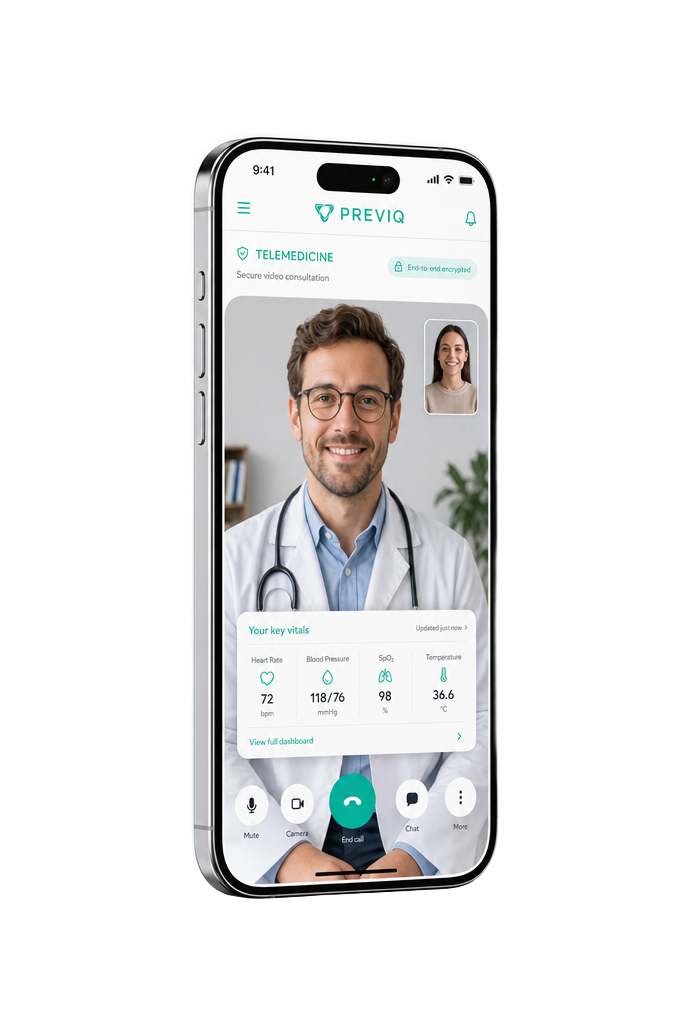
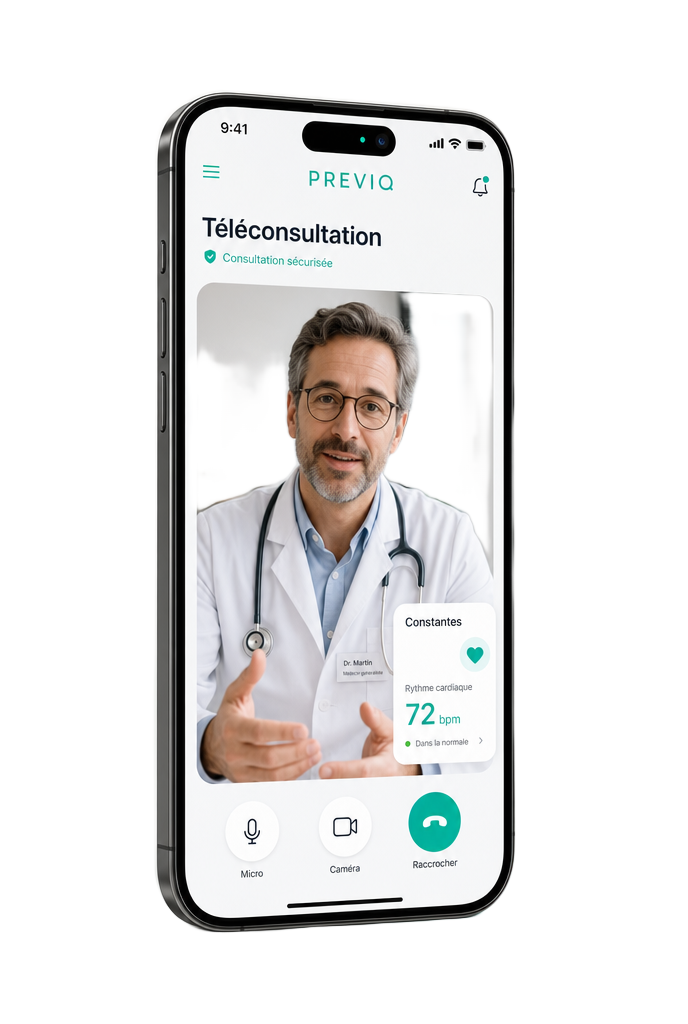
Montée en gamme pages 18/22/23 + écran téléconsult FR
- Page « Second avis » : étapes en cartes verre premium
- Page « Confidentialité » : 6 cartes verre premium + badges check, bouclier
  avec halo lumineux et légende « chiffré de bout en bout »
- Page « L'application pilote » : vrai écran d'app au centre du hub
  (remplace le téléphone dessiné en SVG)
- Écran téléconsultation régénéré en français + détouré

Claude-Session: https://claude.ai/code/session_01NNiVNv6aGaBRmruBegNx5H

Changed region(s): [[0.2137, 0.0625, 0.7631, 0.9375]]

diff --git a/diaporama.html b/diaporama.html
@@ -2208,11 +2208,14 @@ function Scene11Security({ start, end }) {
               <span style={{ fontStyle: 'italic', color: C.cyan }}>protégées comme un secret médical.</span>
             </div>
 
+            {/* Soft glow behind shield */}
+            <div style={{ position: 'absolute', left: 300, top: 560, transform: 'translate(-50%,-50%)', width: 560, height: 560, borderRadius: '50%', background: `radial-gradient(circle, ${C.cyan}26 0%, transparent 66%)`, opacity: shieldIn }} />
+
             {/* 3D shield */}
             <div style={{
-              position: 'absolute', left: 240, top: 540,
+              position: 'absolute', left: 300, top: 560,
               opacity: shieldIn,
-              transform: `translate(-50%, -50%) perspective(1200px) rotateY(${Math.sin(t * 0.6) * 12}deg) scale(${0.6 + shieldIn * 0.4})`,
+              transform: `translate(-50%, -50%) perspective(1200px) rotateY(${Math.sin(t * 0.6) * 12}deg) scale(${0.7 + shieldIn * 0.4})`,
               transformStyle: 'preserve-3d',
             }}>
               <svg width="380" height="440" viewBox="0 0 380 440" style={{ filter: `drop-shadow(0 0 50px ${C.cyan})` }}>
@@ -2241,31 +2244,40 @@ function Scene11Security({ start, end }) {
               </svg>
             </div>
 
+            {/* Premium caption under shield */}
+            <div style={{ position: 'absolute', left: 300, top: 828, transform: 'translateX(-50%)', opacity: shieldIn, display: 'flex', alignItems: 'center', gap: 10, padding: '10px 22px', borderRadius: 100, background: 'rgba(255,255,255,0.72)', border: `1px solid ${C.cyan}44`, boxShadow: `0 8px 22px ${C.cyan}18`, backdropFilter: 'blur(8px)', fontFamily: 'JetBrains Mono, monospace', fontSize: 14, letterSpacing: '0.16em', textTransform: 'uppercase', color: C.blue, whiteSpace: 'nowrap' }}>
+              <span style={{ width: 8, height: 8, borderRadius: 4, background: C.cyan, boxShadow: `0 0 10px ${C.cyan}` }} />
+              Chiffré de bout en bout · secret médical
+            </div>
+
             <div style={{
-              position: 'absolute', right: 96, top: 420, width: 1000,
-              display: 'grid', gridTemplateColumns: '1fr 1fr', gap: 18,
+              position: 'absolute', right: 96, top: 408, width: 1040,
+              display: 'grid', gridTemplateColumns: '1fr 1fr', gap: 22,
             }}>
               {commits.map((c, i) => {
                 const itIn = clamp((t - 2.0 - i * 0.15) / 0.5, 0, 1);
                 return (
                   <div key={i} style={{
                     opacity: itIn, transform: `translateX(${(1-itIn)*30}px)`,
-                    padding: '18px 22px',
-                    background: 'rgba(0,179,154,0.04)',
-                    border: `1px solid ${C.line}`,
-                    borderRadius: 12,
-                    display: 'flex', gap: 14,
+                    padding: '22px 26px',
+                    background: 'linear-gradient(135deg, rgba(255,255,255,0.9), rgba(244,249,250,0.82))',
+                    border: `1px solid ${C.cyan}33`,
+                    borderRadius: 16,
+                    boxShadow: '0 14px 36px rgba(10,37,64,0.08)',
+                    backdropFilter: 'blur(10px)',
+                    display: 'flex', gap: 16, alignItems: 'flex-start',
                   }}>
                     <div style={{
-                      width: 24, height: 24, flexShrink: 0,
-                      borderRadius: '50%',
-                      background: C.cyan,
+                      width: 34, height: 34, flexShrink: 0,
+                      borderRadius: 10,
+                      background: `linear-gradient(135deg, ${C.cyan}, ${C.cyanDim})`,
                       display: 'flex', alignItems: 'center', justifyContent: 'center',
-                      color: C.ink, fontWeight: 700, fontSize: 18,
+                      color: '#fff', fontWeight: 700, fontSize: 19,
+                      boxShadow: `0 6px 16px ${C.cyan}55`,
                     }}>✓</div>
                     <div>
-                      <div style={{ fontSize: 20, fontWeight: 500, color: C.white }}>{c.title}</div>
-                      <div style={{ fontSize: 15, color: C.whiteDim, marginTop: 4, lineHeight: 1.5 }}>{c.desc}</div>
+                      <div style={{ fontFamily: 'Inter', fontSize: 22, fontWeight: 600, color: C.white, letterSpacing: '-0.01em' }}>{c.title}</div>
+                      <div style={{ fontSize: 15.5, color: C.whiteDim, marginTop: 6, lineHeight: 1.5 }}>{c.desc}</div>
                     </div>
                   </div>
                 );
@@ -2993,19 +3005,12 @@ function Scene12Authors({ start, end }) {
                 <polygon points="250,120 350,180 350,320 250,380 150,320 150,180"
                          fill="rgba(252,248,238,0.7)" stroke={C.gold} strokeWidth="1.5"
                          transform={`rotate(${-t * 4} 250 250)`} />
-                {/* Phone glyph at the center */}
-                <g transform="translate(250 250)">
-                  <rect x="-46" y="-78" width="92" height="156" rx="16" fill="rgba(252,248,238,0.92)" stroke={C.gold} strokeWidth="2.5" />
-                  <rect x="-46" y="-78" width="92" height="156" rx="16" fill="none" stroke={C.cyan} strokeWidth="1" opacity="0.5" />
-                  <line x1="-12" y1="-68" x2="12" y2="-68" stroke={C.gold} strokeWidth="3" strokeLinecap="round" />
-                  {/* heartbeat */}
-                  <path d="M -34 4 L -16 4 L -8 -20 L 2 28 L 10 -8 L 18 4 L 34 4"
-                        fill="none" stroke={C.red} strokeWidth="2.5" strokeLinejoin="round" strokeLinecap="round" />
-                  {/* score chip */}
-                  <rect x="-32" y="40" width="64" height="22" rx="6" fill={C.gold} opacity="0.92" />
-                  <text x="0" y="55" textAnchor="middle" fill={C.bg0} fontFamily="JetBrains Mono, monospace" fontSize="14" fontWeight="700">BS 42</text>
-                </g>
               </svg>
+              {/* Real app at the center */}
+              <img src="assets/viz/app-longevity-cut.png" alt="Application PREVIQ" style={{
+                position: 'absolute', left: '50%', top: '50%', transform: 'translate(-50%, -52%)',
+                width: 214, height: 'auto', filter: 'drop-shadow(0 18px 38px rgba(10,37,64,0.30))', pointerEvents: 'none',
+              }} />
               {/* Label under */}
               <div style={{
                 position: 'absolute', left: '50%', bottom: -30,
@@ -3612,15 +3617,17 @@ function SceneSecondAvis({ start, end }) {
                 return (
                   <div key={i} style={{
                     opacity: stIn, transform: `translateX(${(1 - stIn) * 30}px)`,
-                    padding: '20px 24px',
-                    background: `linear-gradient(135deg, ${s.color}10, ${s.color}03)`,
-                    border: `1px solid ${s.color}66`,
-                    borderRadius: 14,
-                    display: 'flex', gap: 18, alignItems: 'flex-start',
+                    padding: '24px 26px',
+                    background: 'linear-gradient(135deg, rgba(255,255,255,0.92), rgba(244,249,250,0.84))',
+                    border: `1px solid ${s.color}44`,
+                    borderRadius: 16,
+                    boxShadow: `0 14px 36px rgba(10,37,64,0.08)`,
+                    backdropFilter: 'blur(10px)',
+                    display: 'flex', gap: 20, alignItems: 'flex-start',
                   }}>
-                    <div style={{ fontFamily: 'Inter', fontSize: 48, fontWeight: 100, color: s.color, lineHeight: 0.9, letterSpacing: '-0.04em', minWidth: 60 }}>{s.n}</div>
+                    <div style={{ fontFamily: 'Inter', fontSize: 52, fontWeight: 100, color: s.color, lineHeight: 0.9, letterSpacing: '-0.04em', minWidth: 64 }}>{s.n}</div>
                     <div>
-                      <div style={{ fontSize: 26, fontWeight: 500, color: C.white, letterSpacing: '-0.01em' }}>{s.title}</div>
+                      <div style={{ fontSize: 26, fontWeight: 600, color: C.white, letterSpacing: '-0.01em' }}>{s.title}</div>
                       <div style={{ fontSize: 17, color: C.whiteDim, marginTop: 6, lineHeight: 1.55 }}>{s.desc}</div>
                     </div>
                   </div>

diff --git a/index.html b/index.html
@@ -2208,11 +2208,14 @@ function Scene11Security({ start, end }) {
               <span style={{ fontStyle: 'italic', color: C.cyan }}>protégées comme un secret médical.</span>
             </div>
 
+            {/* Soft glow behind shield */}
+            <div style={{ position: 'absolute', left: 300, top: 560, transform: 'translate(-50%,-50%)', width: 560, height: 560, borderRadius: '50%', background: `radial-gradient(circle, ${C.cyan}26 0%, transparent 66%)`, opacity: shieldIn }} />
+
             {/* 3D shield */}
             <div style={{
-              position: 'absolute', left: 240, top: 540,
+              position: 'absolute', left: 300, top: 560,
               opacity: shieldIn,
-              transform: `translate(-50%, -50%) perspective(1200px) rotateY(${Math.sin(t * 0.6) * 12}deg) scale(${0.6 + shieldIn * 0.4})`,
+              transform: `translate(-50%, -50%) perspective(1200px) rotateY(${Math.sin(t * 0.6) * 12}deg) scale(${0.7 + shieldIn * 0.4})`,
               transformStyle: 'preserve-3d',
             }}>
               <svg width="380" height="440" viewBox="0 0 380 440" style={{ filter: `drop-shadow(0 0 50px ${C.cyan})` }}>
@@ -2241,31 +2244,40 @@ function Scene11Security({ start, end }) {
               </svg>
             </div>
 
+            {/* Premium caption under shield */}
+            <div style={{ position: 'absolute', left: 300, top: 828, transform: 'translateX(-50%)', opacity: shieldIn, display: 'flex', alignItems: 'center', gap: 10, padding: '10px 22px', borderRadius: 100, background: 'rgba(255,255,255,0.72)', border: `1px solid ${C.cyan}44`, boxShadow: `0 8px 22px ${C.cyan}18`, backdropFilter: 'blur(8px)', fontFamily: 'JetBrains Mono, monospace', fontSize: 14, letterSpacing: '0.16em', textTransform: 'uppercase', color: C.blue, whiteSpace: 'nowrap' }}>
+              <span style={{ width: 8, height: 8, borderRadius: 4, background: C.cyan, boxShadow: `0 0 10px ${C.cyan}` }} />
+              Chiffré de bout en bout · secret médical
+            </div>
+
             <div style={{
-              position: 'absolute', right: 96, top: 420, width: 1000,
-              display: 'grid', gridTemplateColumns: '1fr 1fr', gap: 18,
+              position: 'absolute', right: 96, top: 408, width: 1040,
+              display: 'grid', gridTemplateColumns: '1fr 1fr', gap: 22,
             }}>
               {commits.map((c, i) => {
                 const itIn = clamp((t - 2.0 - i * 0.15) / 0.5, 0, 1);
                 return (
                   <div key={i} style={{
                     opacity: itIn, transform: `translateX(${(1-itIn)*30}px)`,
-                    padding: '18px 22px',
-                    background: 'rgba(0,179,154,0.04)',
-                    border: `1px solid ${C.line}`,
-                    borderRadius: 12,
-                    display: 'flex', gap: 14,
+                    padding: '22px 26px',
+                    background: 'linear-gradient(135deg, rgba(255,255,255,0.9), rgba(244,249,250,0.82))',
+                    border: `1px solid ${C.cyan}33`,
+                    borderRadius: 16,
+                    boxShadow: '0 14px 36px rgba(10,37,64,0.08)',
+                    backdropFilter: 'blur(10px)',
+                    display: 'flex', gap: 16, alignItems: 'flex-start',
                   }}>
                     <div style={{
-                      width: 24, height: 24, flexShrink: 0,
-                      borderRadius: '50%',
-                      background: C.cyan,
+                      width: 34, height: 34, flexShrink: 0,
+                      borderRadius: 10,
+                      background: `linear-gradient(135deg, ${C.cyan}, ${C.cyanDim})`,
                       display: 'flex', alignItems: 'center', justifyContent: 'center',
-                      color: C.ink, fontWeight: 700, fontSize: 18,
+                      color: '#fff', fontWeight: 700, fontSize: 19,
+                      boxShadow: `0 6px 16px ${C.cyan}55`,
                     }}>✓</div>
                     <div>
-                      <div style={{ fontSize: 20, fontWeight: 500, color: C.white }}>{c.title}</div>
-                      <div style={{ fontSize: 15, color: C.whiteDim, marginTop: 4, lineHeight: 1.5 }}>{c.desc}</div>
+                      <div style={{ fontFamily: 'Inter', fontSize: 22, fontWeight: 600, color: C.white, letterSpacing: '-0.01em' }}>{c.title}</div>
+                      <div style={{ fontSize: 15.5, color: C.whiteDim, marginTop: 6, lineHeight: 1.5 }}>{c.desc}</div>
                     </div>
                   </div>
                 );
@@ -2993,19 +3005,12 @@ function Scene12Authors({ start, end }) {
                 <polygon points="250,120 350,180 350,320 250,380 150,320 150,180"
                          fill="rgba(252,248,238,0.7)" stroke={C.gold} strokeWidth="1.5"
                          transform={`rotate(${-t * 4} 250 250)`} />
-                {/* Phone glyph at the center */}
-                <g transform="translate(250 250)">
-                  <rect x="-46" y="-78" width="92" height="156" rx="16" fill="rgba(252,248,238,0.92)" stroke={C.gold} strokeWidth="2.5" />
-                  <rect x="-46" y="-78" width="92" height="156" rx="16" fill="none" stroke={C.cyan} strokeWidth="1" opacity="0.5" />
-                  <line x1="-12" y1="-68" x2="12" y2="-68" stroke={C.gold} strokeWidth="3" strokeLinecap="round" />
-                  {/* heartbeat */}
-                  <path d="M -34 4 L -16 4 L -8 -20 L 2 28 L 10 -8 L 18 4 L 34 4"
-                        fill="none" stroke={C.red} strokeWidth="2.5" strokeLinejoin="round" strokeLinecap="round" />
-                  {/* score chip */}
-                  <rect x="-32" y="40" width="64" height="22" rx="6" fill={C.gold} opacity="0.92" />
-                  <text x="0" y="55" textAnchor="middle" fill={C.bg0} fontFamily="JetBrains Mono, monospace" fontSize="14" fontWeight="700">BS 42</text>
-                </g>
               </svg>
+              {/* Real app at the center */}
+              <img src="assets/viz/app-longevity-cut.png" alt="Application PREVIQ" style={{
+                position: 'absolute', left: '50%', top: '50%', transform: 'translate(-50%, -52%)',
+                width: 214, height: 'auto', filter: 'drop-shadow(0 18px 38px rgba(10,37,64,0.30))', pointerEvents: 'none',
+              }} />
               {/* Label under */}
               <div style={{
                 position: 'absolute', left: '50%', bottom: -30,
@@ -3612,15 +3617,17 @@ function SceneSecondAvis({ start, end }) {
                 return (
                   <div key={i} style={{
                     opacity: stIn, transform: `translateX(${(1 - stIn) * 30}px)`,
-                    padding: '20px 24px',
-                    background: `linear-gradient(135deg, ${s.color}10, ${s.color}03)`,
-                    border: `1px solid ${s.color}66`,
-                    borderRadius: 14,
-                    display: 'flex', gap: 18, alignItems: 'flex-start',
+                    padding: '24px 26px',
+                    background: 'linear-gradient(135deg, rgba(255,255,255,0.92), rgba(244,249,250,0.84))',
+                    border: `1px solid ${s.color}44`,
+                    borderRadius: 16,
+                    boxShadow: `0 14px 36px rgba(10,37,64,0.08)`,
+                    backdropFilter: 'blur(10px)',
+                    display: 'flex', gap: 20, alignItems: 'flex-start',
                   }}>
-                    <div style={{ fontFamily: 'Inter', fontSize: 48, fontWeight: 100, color: s.color, lineHeight: 0.9, letterSpacing: '-0.04em', minWidth: 60 }}>{s.n}</div>
+                    <div style={{ fontFamily: 'Inter', fontSize: 52, fontWeight: 100, color: s.color, lineHeight: 0.9, letterSpacing: '-0.04em', minWidth: 64 }}>{s.n}</div>
                     <div>
-                      <div style={{ fontSize: 26, fontWeight: 500, color: C.white, letterSpacing: '-0.01em' }}>{s.title}</div>
+                      <div style={{ fontSize: 26, fontWeight: 600, color: C.white, letterSpacing: '-0.01em' }}>{s.title}</div>
                       <div style={{ fontSize: 17, color: C.whiteDim, marginTop: 6, lineHeight: 1.55 }}>{s.desc}</div>
                     </div>
                   </div>
